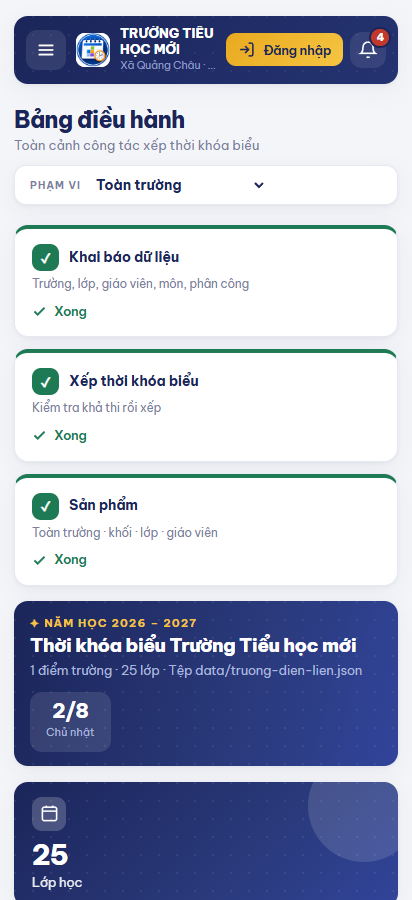
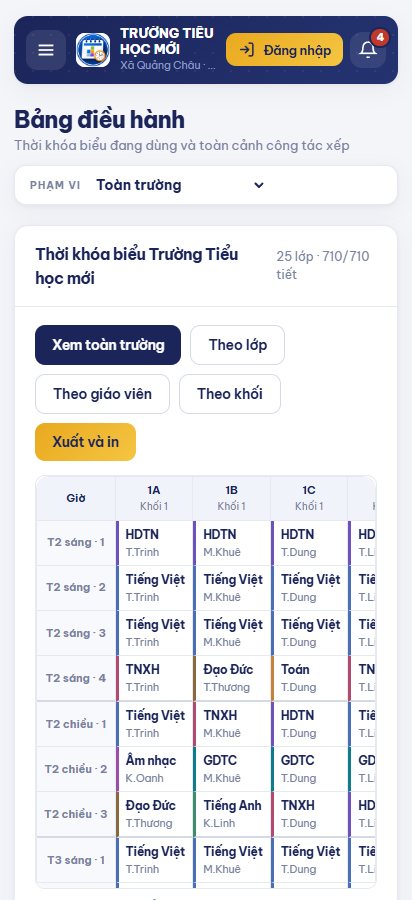
Bảng điều hành mở đầu bằng thời khóa biểu; vòng tròn % căn giữa lại
1. SẢN PHẨM LÊN TRƯỚC. Chủ dự án nêu đúng chỗ hổng của quy trình ba
   bước: thời khóa biểu — thứ quan trọng nhất — nằm ẩn dưới thanh điều
   hướng, người mới vào tưởng đây là trang web. Nay mDieuHanh() đổi vai
   theo trạng thái: đã xếp được tiết nào thì mở đầu bằng chính cái lưới
   (cuộn trong khung 46vh) kèm năm nút đi thẳng tới bốn sản phẩm và
   Xuất/in, ba thẻ bước lùi xuống dưới; chưa xếp gì thì mới bày ba bước
   lên trước. Nguyên tắc: bảng điều hành trả lời "phần mềm cho tôi cái
   gì", không phải "tôi đã làm tới đâu".

2. VÒNG TRÒN PHẦN TRĂM. Dùng display:grid với hai con nên lưới chia đôi
   chiều cao rồi căn giữa TỪNG Ô — "100%" bị đẩy lên chạm vành trên, "đã
   xếp" tụt xuống chạm vành dưới. Nay flex một cột căn giữa cả cụm, cỡ
   chữ 21px vừa lỗ.

Kiểm chứng: npm test 225/225, npm run soi 140/140 (+5), chụp lại ảnh
giao diện bằng Chrome thật.

diff --git a/src/index.html b/src/index.html
@@ -186,10 +186,15 @@ h1{font-size:23px;font-weight:800;letter-spacing:-.03em;line-height:1.2}
 .the-t{padding:18px 20px}
 
 .vong{display:flex;align-items:center;gap:22px}
-.donut{width:112px;height:112px;flex:0 0 112px;border-radius:50%;display:grid;place-items:center;position:relative}
-.donut::before{content:'';position:absolute;inset:15px;background:var(--the);border-radius:50%}
-.donut b{position:relative;font-size:23px;font-weight:800;letter-spacing:-.03em}
-.donut span{position:relative;font-size:10.5px;color:var(--chu-mo);display:block;text-align:center;margin-top:-3px}
+/* Cụm chữ phải nằm GIỮA lỗ tròn. Bản cũ dùng `display:grid` với hai con:
+   lưới chia đôi chiều cao rồi căn giữa TỪNG Ô, nên "100%" bị đẩy lên chạm
+   vành trên còn "đã xếp" tụt xuống chạm vành dưới. Flex một cột căn giữa
+   cả cụm mới đúng. */
+.donut{width:112px;height:112px;flex:0 0 112px;border-radius:50%;position:relative;
+  display:flex;flex-direction:column;align-items:center;justify-content:center}
+.donut::before{content:'';position:absolute;inset:14px;background:var(--the);border-radius:50%}
+.donut b{position:relative;font-size:21px;font-weight:800;letter-spacing:-.03em;line-height:1}
+.donut span{position:relative;font-size:10px;color:var(--chu-mo);line-height:1;margin-top:5px}
 .hang{display:flex;justify-content:space-between;align-items:center;padding:11px 0;border-bottom:1px solid var(--ke);font-size:13.5px}
 .hang:last-child{border-bottom:none}
 .hang b{font-weight:700;font-size:15px}
@@ -3624,8 +3629,38 @@ function mDieuHanh(){
   /* Thẻ cảnh báo tự cuộn bên trong nên bày hết, không cắt bớt còn 4 mục */
   const canhBao=KT.vm.filter(v=>v.muc!=='goi');
 
-  return dauTrang('Bảng điều hành','Toàn cảnh công tác xếp thời khóa biểu',true)+
-  thanhBuoc(0)+`
+  /* ---------- Sản phẩm lên trước, quy trình lùi sau ----------
+     Chủ dự án chỉ ra: người mới vào không biết có ba bước, họ tưởng đây là
+     một trang web và không thấy thứ mình cần — thời khóa biểu. Nay hễ đã
+     xếp được tiết nào thì Bảng điều hành mở đầu bằng CHÍNH cái lưới ấy,
+     kèm lối đi thẳng tới bốn sản phẩm. Chưa xếp gì thì mới bày ba bước
+     hướng dẫn lên trước, vì lúc đó người dùng thật sự cần được dẫn đường. */
+  const coSanPham = daXep>0 && ds.length>0;
+  const kheSanPham = !coSanPham ? '' : `
+  <div class="the" style="margin-bottom:18px">
+    <div class="the-d"><h2>Thời khóa biểu ${esc(S.tenTruong)}</h2>
+      <span class="meta">${ds.length} lớp · ${daXep}/${tongCan} tiết${KHO.version?` · phiên bản ${KHO.version}`:''}</span></div>
+    <div class="the-t">
+      <div style="display:flex;gap:9px;flex-wrap:wrap;margin-bottom:14px">
+        <button class="b b-ch" data-di="toantruong">Xem toàn trường</button>
+        <button class="b b-vien" data-di="tkblop">Theo lớp</button>
+        <button class="b b-vien" data-di="tkbgv">Theo giáo viên</button>
+        <button class="b b-vien" data-di="tkbkhoi">Theo khối</button>
+        <button class="b b-vang" data-di="xuatin">Xuất và in</button>
+      </div>
+      <div style="max-height:46vh;overflow:auto;border:1px solid var(--ke);border-radius:var(--r2)">
+        ${luoiRongHTML(ds,true)}
+      </div>
+      <div class="gy" style="margin-top:10px">Cuộn trong khung để xem hết.
+        ${KHO.banCongBo===KHO.version&&KHO.version?'Giáo viên đang xem đúng bản này.'
+          :coMayChu()&&KHO.version?'<b>Chưa công bố</b> — thầy cô chưa xem được bản này.':''}</div>
+    </div>
+  </div>`;
+
+  return dauTrang('Bảng điều hành',
+    coSanPham?'Thời khóa biểu đang dùng và toàn cảnh công tác xếp'
+             :'Toàn cảnh công tác xếp thời khóa biểu',true)+
+  kheSanPham+thanhBuoc(0)+`
   <div class="dh">
   <div class="bang-ron">
     <div>

diff --git a/CLAUDE.md b/CLAUDE.md
@@ -285,6 +285,27 @@ nguyên ảnh gốc là tệp HTML phình thêm 1,8 MB cho một hình 52px.
 cho **Thông tin trường · Môn học · Phòng học** — tệp Excel không chứa ba thứ đó,
 bày nút nhập ở đấy là hứa hão.
 
+#### Sản phẩm lên trước, quy trình lùi sau *(2/8/2026)*
+
+Chủ dự án nêu đúng chỗ hổng của quy trình ba bước: *"sản phẩm đầu ra quan
+trọng nhất là Thời khóa biểu nằm ẩn dưới thanh điều hướng… người dùng mới
+vào chưa biết, nghĩ đây là trang web"*. Thanh bên xếp theo trình tự làm việc
+là đúng cho người **đang xếp**, nhưng người mở phần mềm ra lần đầu — hay mở
+lại sau khi đã xếp xong — chỉ muốn thấy **cái lưới**.
+
+Nay `mDieuHanh()` **đổi vai theo trạng thái**:
+- **Đã xếp được tiết nào** → mở đầu bằng chính thời khóa biểu (lưới toàn
+  trường cuộn trong khung cao 46vh) + năm nút đi thẳng: Toàn trường · Theo
+  lớp · Theo giáo viên · Theo khối · Xuất và in. Ba thẻ bước lùi xuống dưới.
+  Có nhắc luôn *"Chưa công bố — thầy cô chưa xem được bản này"* khi cần.
+- **Chưa xếp gì** → giữ nguyên ba bước lên trước, vì lúc đó người dùng thật
+  sự cần được dẫn đường.
+
+Nguyên tắc rút ra: **bảng điều hành phải trả lời "phần mềm này cho tôi cái
+gì", không phải "tôi đã làm tới đâu"** — tiến độ chỉ có nghĩa với người đang
+làm dở. Có phép thử canh cả hai trạng thái và canh thứ tự (khối sản phẩm
+phải đứng trước ba thẻ bước).
+
 Ba hàm giữ quy trình này:
 
 | Hàm | Việc |
